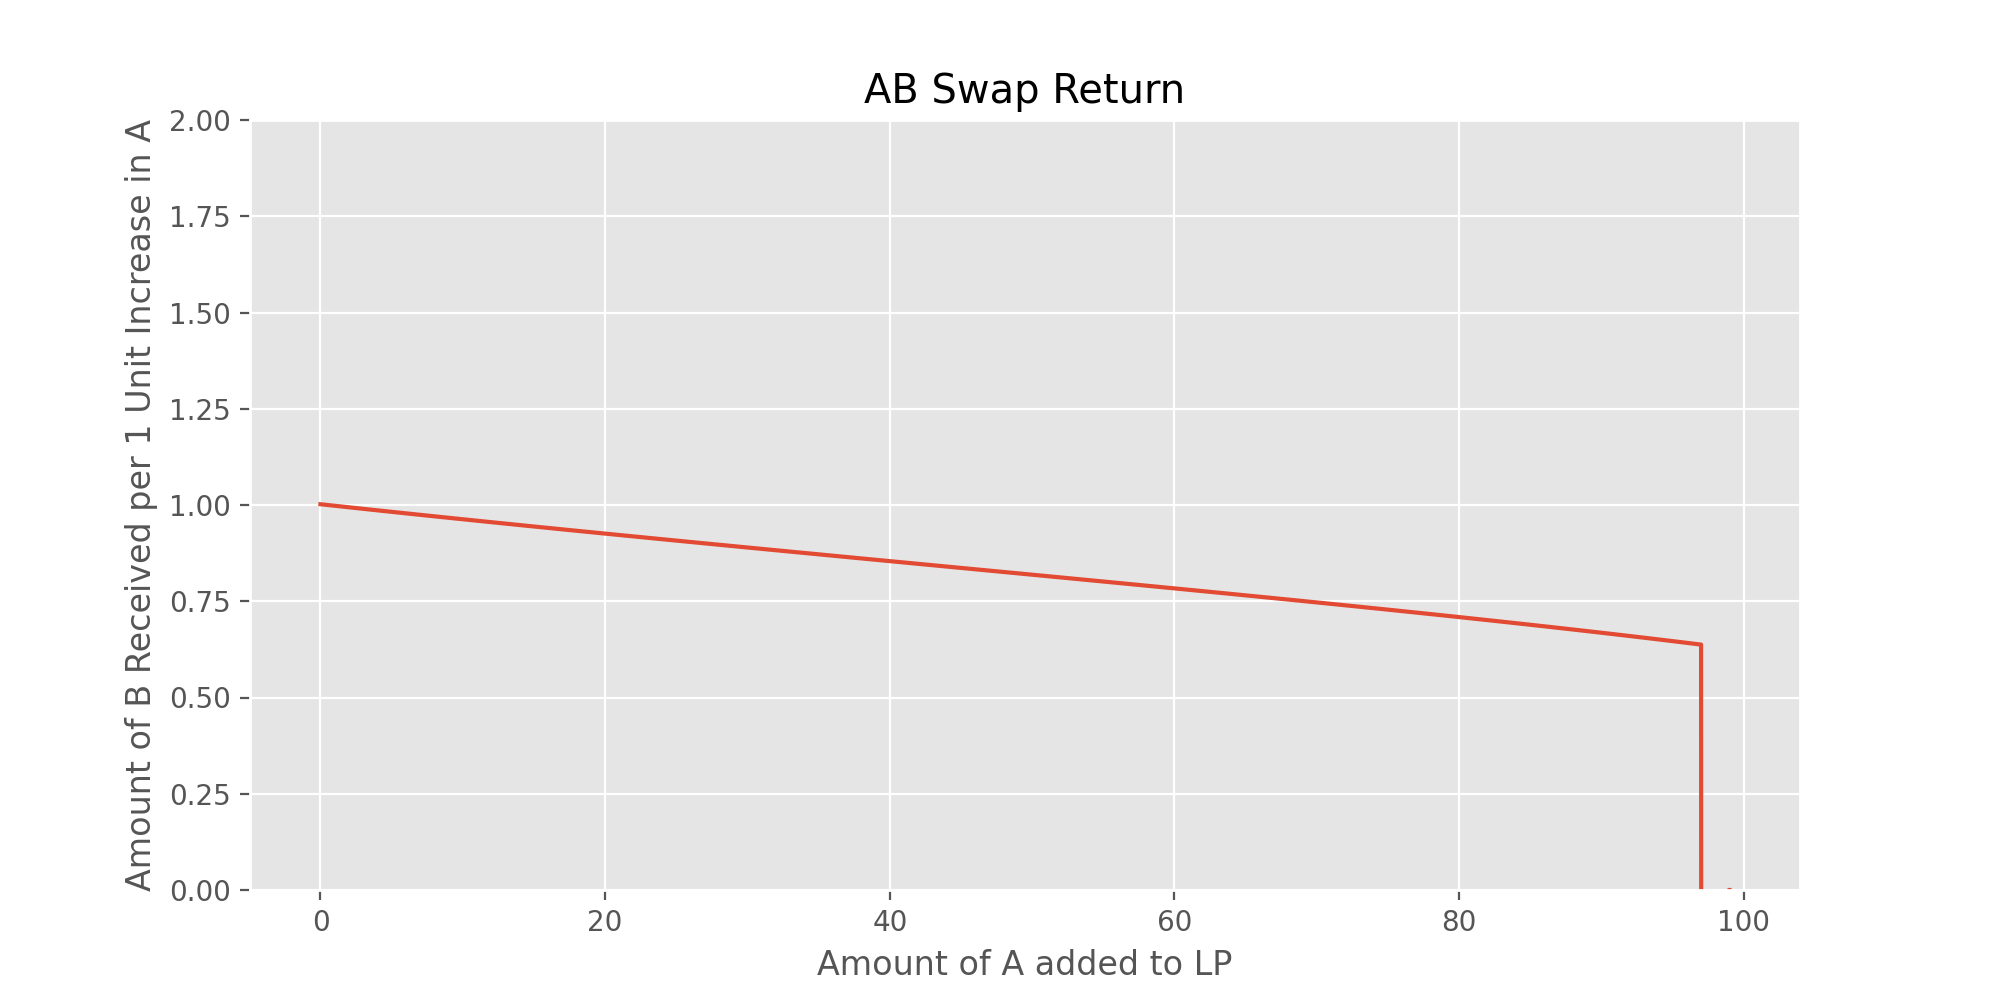
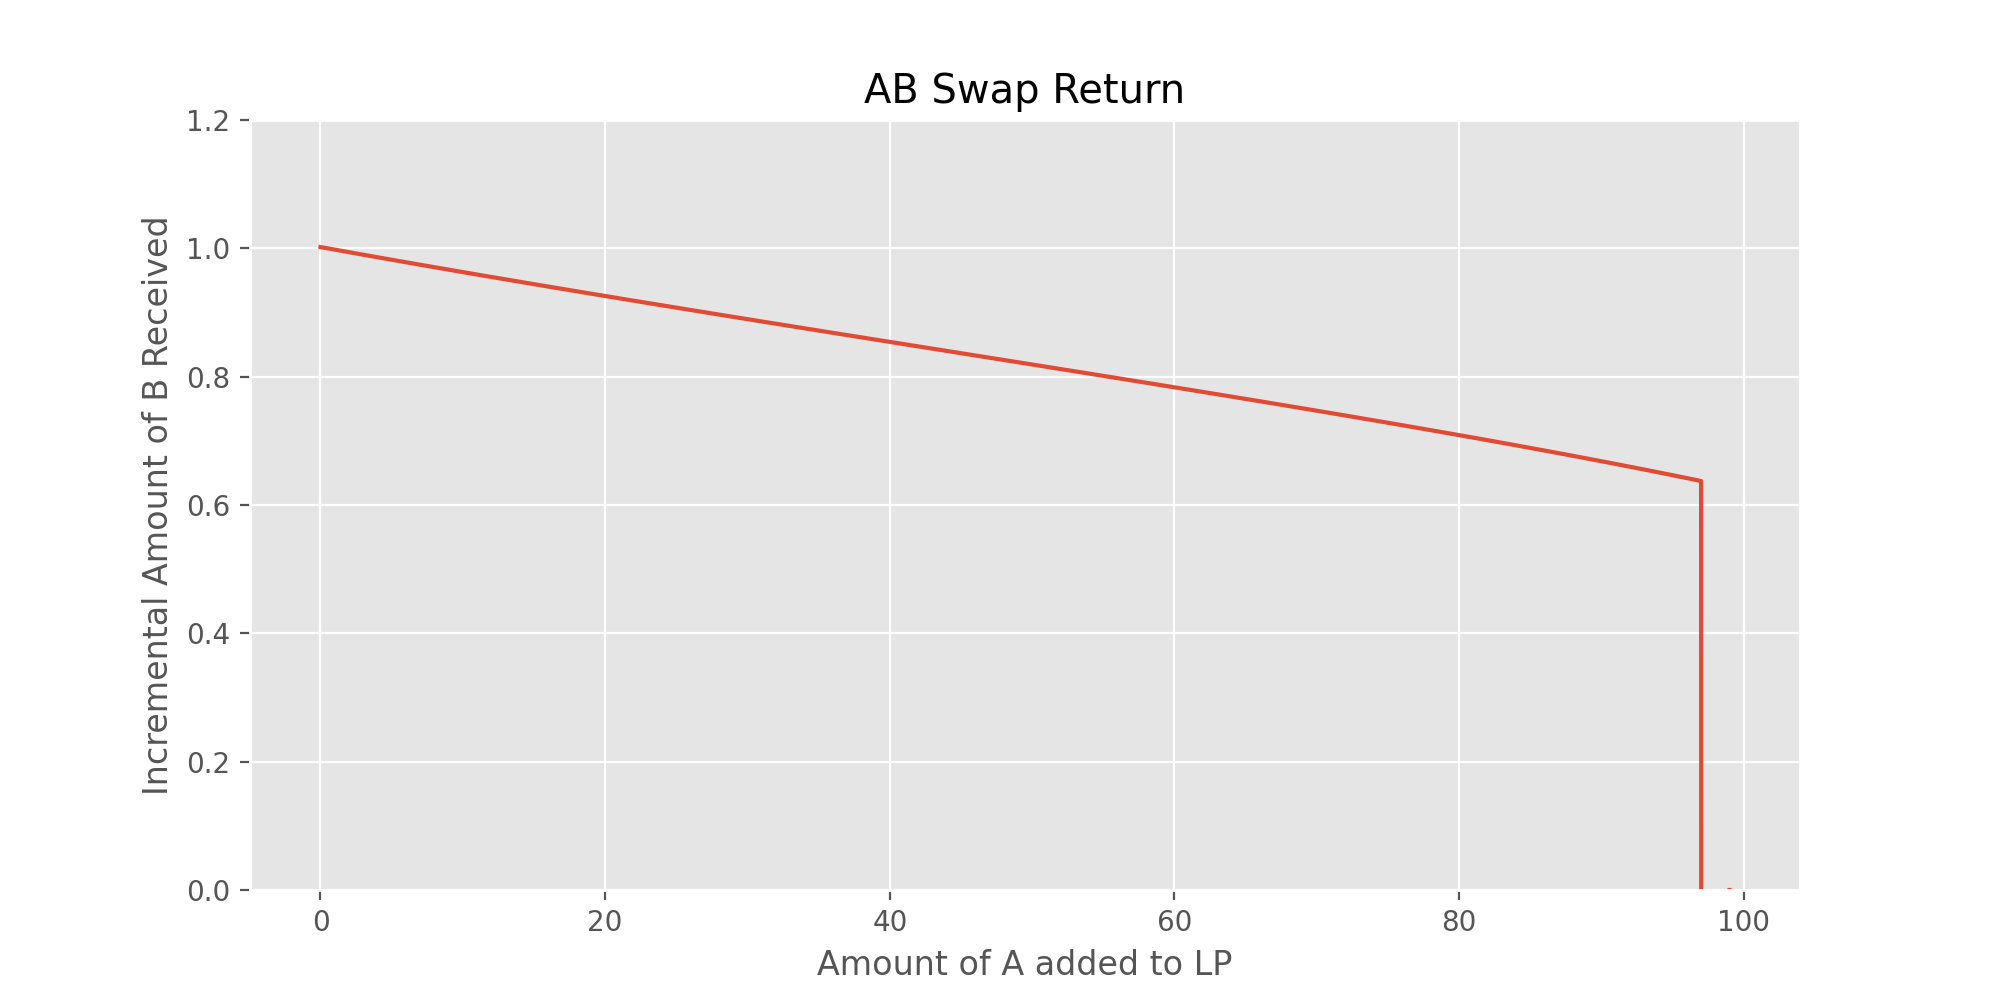
update

diff --git a/Submission_Code.py b/Submission_Code.py
@@ -178,6 +178,7 @@ difference = [(d.quantity(i).x[0]-d.quantity(i-1).x[0]) for i in range(100)]
 plt.plot(delA, difference)
 plt.xlabel('Amount of A added to LP')
 plt.ylabel('Incremental Amount of Y Received')
+plt.ylim(0,1)
 plt.title('AY Swap Return')
 plt.themes
 plt.show()
@@ -190,11 +191,11 @@ price = np.array([d.price(i) for i in range(100)])
 price = np.log10(price)
 slippage = np.log10(slippage)
 
-plt.plot(price, slippage)
+plt.plot(delA, slippage)
 plt.xlabel('Price of Y in terms of A, log10')
 plt.ylabel('Slippage, log10')
 plt.ylim(0, 1.75)
-plt.title('AY Price Sllippage as a Function of Price')
+plt.title('AY Price Slippage vs. Quantity of A')
 plt.show()
 
 
@@ -207,10 +208,9 @@ difference = [(b.quantity(i).x[0]-b.quantity(i-1).x[0]) for i in range(100)]
 delA = [i for i in range(100)]
 
 plt.plot(delA, difference)
-plt.ylim([0, 2])
-# plt.xlim([0, 11])
+plt.ylim([0,1.2])
 plt.xlabel('Amount of A added to LP')
-plt.ylabel('Amount of B Received per 1 Unit Increase in A')
+plt.ylabel('Incremental Amount of B Received')
 plt.title('AB Swap Return')
 plt.show()
 
@@ -222,10 +222,11 @@ price = np.array([b.price(i) for i in range(100)])
 price = np.log10(price)
 slippage = np.log10(slippage)
 
-plt.plot(price, slippage)
+plt.plot(delA, slippage)
 plt.xlabel('Price of B in terms of A, log10')
+plt.ylim(0, 2)
 plt.ylabel('Slippage, log10')
-plt.title('AB Price Slippage as a Function of Price')
+plt.title('AB Price Slippage vs. Quantity of A')
 plt.show()
 
 
@@ -238,10 +239,11 @@ difference = [(cp.quantity(i).x[0]-cp.quantity(i-1).x[0]) for i in range(100)]
 delA = [i for i in range(100)]
 
 plt.plot(delA, difference)
-plt.ylim([0, 2])
+# plt.ylim([0, 2])
 plt.xlim([0,100])
+plt.ylim(0,1)
 plt.xlabel('Amount of A added to LP')
-plt.ylabel('Amount of B Received per 1 Unit Increase in A')
+plt.ylabel('Incremental Amount of B Received')
 plt.title('CPMM Swap Return')
 plt.show()
 
@@ -253,10 +255,10 @@ price = np.array([cp.price(i) for i in range(100)])
 price = np.log10(price)
 slippage = np.log10(slippage)
 
-plt.plot(price, slippage)
+plt.plot(delA, slippage)
 plt.xlabel('Price of B in terms of A, log10')
 plt.ylabel('Slippage, log10')
-plt.title('CPMM Price Slippage as a Function of Price')
+plt.title('CPMM Price Slippage vs. Quantity of A')
 plt.show()
 
 
@@ -281,12 +283,12 @@ plt.show()
 
 
 #Quantity of Y vs Price of Y
-difference = np.array([(d.quantity(i).x[0]-d.quantity(i-1).x[0]) for i in range(100)]) ** 2
+difference = np.array([(d.quantity(i).x[0]-d.quantity(i-1).x[0]) for i in range(100)]) 
 price = np.array([d.price(i) for i in range(100)])
-price = (price) **2
+price = (price) 
 
-plt.plot(difference, price)
-plt.xlabel('Incremental Amount of Y in LP')
+plt.plot(price, difference)
+plt.xlabel('Incremental Amount of Y Returned in LP')
 plt.ylabel('Price of Y in Terms of A')
 # plt.ylim(0, 1.75)
 plt.title('Quantity of Y vs. Price of Y')

diff --git a/Data.py b/Data.py
@@ -67,6 +67,10 @@ class data_ay():
 
     def slippage(self, delA):
         return (((self.price(delA) / self.price(1)) - 1) * 100)
+    
+    def mrs(self, delA, b, y):
+        delY = opt.root(lambda: y: ((((delA ** (1 - self.sigma) + b ** (1 - self.sigma))**(1/(1 - self.sigma)))/y) ** -self.eta) * ((delA)/(delA ** (1 - self.sigma) + b ** (1 - self.sigma))**(1/(1-self.sigma)))** -self.sigma)
+       
 
 
 
@@ -91,6 +95,8 @@ class data_ay():
 
 
 d = data_ay(.2, .8, 100, 100, 100)
+mrs = d.mrs(d.a, d.b, d.y)
+print(mrs)
 UStart_ay = d.Ufun(d.a, d.b, d.y)
 UStart_ay
 
